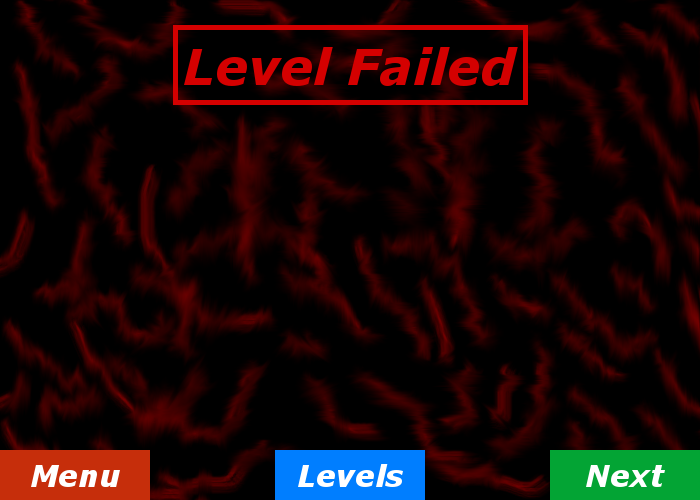
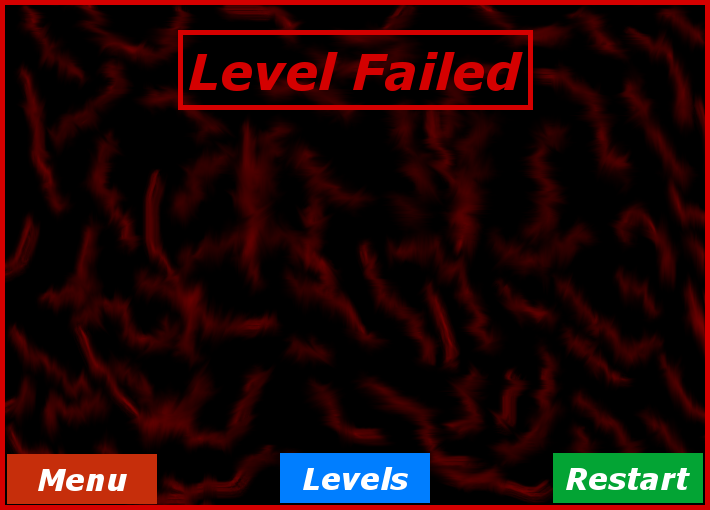
Loading screen, popis, defeat a victory screen, caslimit predelanej vsude na TimeSpan

diff --git a/TheLems/TheLems/HlavniOkno.cs b/TheLems/TheLems/HlavniOkno.cs
@@ -29,7 +29,7 @@ namespace TheLems
         Graphics GrafikaGameDisplay, GrafikaGameLandscape, GrafikaButtons, GrafikaMap, GrafikaText, GrafikaMenu;
         Point PoziceMysiObrazovka;
         Rectangle ZobrazenaCast; //Popisuje cast vyriznutou z obrazku cele mapy a zobrazenou na obrazovce
-        bool MapMouseDown;
+        bool MapMouseDown, Win;
         string AktLevelCesta;
         DateTime Cas; //FORTESTING
         TimeSpan UbehlyCas; //FORTESTING
@@ -301,7 +301,22 @@ namespace TheLems
                         }
                     }
                 else if (Stav == State.Begin)
-                    SwitchToGame();
+                    for (int i = 0; i < MenuTlacitka.Length; i++)
+                    {
+                        if (MenuTlacitka[i].Contains(e.Location))
+                        {
+                            switch (i)
+                            {
+                                case 0://Menu
+                                    SwitchToMenu();
+                                    break;
+                                case 1://Start
+                                    SwitchToGame();
+                                    break;
+                            }
+                            break;
+                        }
+                    }
                 else if (Stav == State.Pauza)
                     for (int i = 0; i < MenuTlacitka.Length; i++)
                     {
@@ -339,7 +354,13 @@ namespace TheLems
                                     break;
                                 case 1://Levels
                                     break;
-                                case 2://Next
+                                case 2://Next/Restart
+                                    if (Win)
+                                    { }
+                                    else
+                                    {
+                                        SwitchToBegin(AktLevelCesta);
+                                    }
                                     break;
  
                             }
@@ -410,6 +431,20 @@ namespace TheLems
                     PictureBoxMenu.Refresh();
                     break;
                 case State.Begin:
+                    GrafikaMenu.DrawRectangles(new Pen(Color.Black, 3), MenuTlacitka);
+                    for (int i = 0; i < MenuTlacitka.Length; i++)
+                    {
+                        if (MenuTlacitka[i].Contains(e.Location))
+                        {
+                            Tlacitko = i;
+                            break;
+                        }
+                    }
+                    if (Tlacitko != -1)
+                    {
+                        GrafikaMenu.DrawRectangle(new Pen(Color.White, 3), MenuTlacitka[Tlacitko]);
+                    }
+                    PictureBoxMenu.Refresh();
                     break;
             }
         }
@@ -474,9 +509,18 @@ namespace TheLems
                     PictureBoxText.Hide();
                     PictureBoxMap.Hide();                   
                     break;
+                case State.Begin:
+                    
+                    break;
                 default:
                     break;
             }
+            //Vynulovani vseho, protoze sem v menu
+            ToPictureBoxGame = null; ToPictureBoxMap = null; ToPictureBoxText = null; ToPictureBoxButtons = null;
+            GrafikaGameDisplay = null; GrafikaGameLandscape = null; GrafikaMap = null; GrafikaText = null;
+            Popredi = null; Pozadi = null; PozadiMini = null; TlacitkaUp = null; TlacitkaDown = null; ObrazkyLemmu = null; ObrazkyLemmuRot = null;
+            PauzaScreen = null;
+
             Stav = State.Menu;
             MouseOverTlacitko = -1;
             MenuTlacitka = new Rectangle[5];
@@ -505,22 +549,68 @@ namespace TheLems
             AktLevelCesta = (string) CestaKLevelu.Clone();
             switch (Stav)
             {
-                case State.Menu:
-                    
+                case State.Menu:               
                     break;
                 case State.Pauza:
-
+                    PictureBoxGame.Hide();
+                    PictureBoxButtons.Hide();
+                    PictureBoxText.Hide();
+                    PictureBoxMap.Hide();
+                    break;
                 case State.End:
+                    PictureBoxGame.Hide();
+                    PictureBoxButtons.Hide();
+                    PictureBoxText.Hide();
+                    PictureBoxMap.Hide();
                     break;
             }
 
             Stav = State.Begin;
-            //PictureBoxMenu.Image = new Bitmap(cesta + "_intro.png");
+            PictureBoxMenu.Image = new Bitmap(@"Animations\Loading.png");
+            PictureBoxMenu.Left = 0;
+            PictureBoxMenu.Top = 0;
+            PictureBoxMenu.Size = PictureBoxMenu.Image.Size;
+            GrafikaMenu = Graphics.FromImage(PictureBoxMenu.Image);
+            MenuTlacitka = new Rectangle[2];
+            MenuTlacitka[0] = new Rectangle(0, 668, 300, 100);
+            MenuTlacitka[1] = new Rectangle(980, 668, 300, 100);
             MouseOverTlacitko = -1;
 
             //Nacteni infa o levelu
             LevelDetails LevelInfo = new LevelDetails(CestaKLevelu + "_info.xml");
 
+            //Vypsani infa
+            GrafikaMenu.DrawString("Level: " + LevelInfo.Jmeno, new Font("Verdana", 20), Brushes.White, 50, 50);
+            GrafikaMenu.DrawString("Počet Lemmingů: " + LevelInfo.PocetLemmingu, new Font("Verdana", 20), Brushes.White, 50, 100);
+            GrafikaMenu.DrawString("Hranice pro vítězství:" + LevelInfo.HraniceProVitezstvi + "%", new Font("Verdana", 20), Brushes.White, 50, 150);
+            GrafikaMenu.DrawString("Časový limit: " + LevelInfo.CasovyLimit.Minutes + LevelInfo.CasovyLimit.Seconds, new Font("Verdana", 20), Brushes.White, 50, 200);
+            GrafikaMenu.DrawString("Počet spawnů: " + LevelInfo.PocetSpawnu, new Font("Verdana", 20), Brushes.White, 50, 250);
+            GrafikaMenu.DrawString("Počet cílů: " + LevelInfo.PocetCilu, new Font("Verdana", 20), Brushes.White, 50, 300);
+            
+            StringBuilder Formating = new StringBuilder(LevelInfo.Description);
+            Formating.Replace("\n", "");
+            Formating.Replace("\r", "");
+            string[] ZFormatovano = new string[(Formating.Length/70) + 1];
+            int Cyklus = 0, Hranice = 70;
+            while (Formating.Length > 0) //Pro rozstrihani do 70 charu dlouhejch stringu, aby se veslo na obrazovku
+            {
+                while (Formating.Length > Hranice && Formating[Hranice] != ' ')
+                {
+                    Hranice--;
+                }
+                if (Formating.Length < Hranice)
+                    Hranice = Formating.Length;
+                ZFormatovano[Cyklus] = Formating.ToString(0, Hranice);
+                Formating.Remove(0, Hranice);
+                Cyklus++;
+                Hranice = 70; 
+            }
+            GrafikaMenu.DrawString("Popis: " + ZFormatovano[0], new Font("Verdana", 20), Brushes.White, 50, 350);
+            for (int i = 1; i < ZFormatovano.Length && !string.IsNullOrWhiteSpace(ZFormatovano[i]) && i < 7; i++)
+            {
+                GrafikaMenu.DrawString(ZFormatovano[i], new Font("Verdana", 20), Brushes.White, 80, 350 + i*50);
+            }
+            
             //PictureBoxGame inic
             ToPictureBoxGame = new Bitmap(PictureBoxGame.Width, PictureBoxGame.Height);
             GrafikaGameDisplay = Graphics.FromImage(ToPictureBoxGame);
@@ -621,22 +711,31 @@ namespace TheLems
         {
             Stav = State.End;
             Timer.Enabled = false;
-            
+
 
             if (Konec == 1)
+            {
                 PictureBoxMenu.Image = new Bitmap(@"Animations\Victory.png");
+                Win = true;
+            }
             else
+            {
                 PictureBoxMenu.Image = new Bitmap(@"AnimationS\Defeat.png");
+                Win = false;
+            }
 
             PictureBoxMenu.Size = PictureBoxMenu.Image.Size;
-            PictureBoxMenu.Left = 290;
-            PictureBoxMenu.Top = 134;
+            PictureBoxMenu.Left = 285;
+            PictureBoxMenu.Top = 129;
             GrafikaMenu = Graphics.FromImage(PictureBoxMenu.Image);
             MenuTlacitka = new Rectangle[3];
-            MenuTlacitka[0] = new Rectangle(0, 450, 150, 50);
-            MenuTlacitka[1] = new Rectangle(275, 450, 150, 50);
-            MenuTlacitka[2] = new Rectangle(550, 450, 150, 50);
+            MenuTlacitka[0] = new Rectangle(7, 454, 150, 50);
+            MenuTlacitka[1] = new Rectangle(280, 454, 150, 50);
+            MenuTlacitka[2] = new Rectangle(553, 454, 150, 50);
 
+            GrafikaMenu.DrawString("Zachráněných: " + Hra.ProcentVCili() + "%", new Font("Verdana", 20), Brushes.White, 50, 150);
+            GrafikaMenu.DrawString("Potřebných pro splnění: " + Hra.HraniceProVitezstvi + "%", new Font("Verdana", 20), Brushes.White, 50, 200);
+            GrafikaMenu.DrawString("Zbývající čas: " + Hra.Limit.Minutes + ":" + Hra.Limit.Seconds, new Font("Verdana", 20), Brushes.White, 50, 250);
             PictureBoxMenu.Show();   
         }
 
@@ -957,9 +1056,10 @@ namespace TheLems
     class LevelDetails
     {
         public readonly string Jmeno;
+        public readonly string Description;
         public readonly int PocetLemmingu;
         public readonly int HraniceProVitezstvi;
-        public readonly int CasovyLimit;
+        public readonly TimeSpan CasovyLimit;
         public readonly int MaxRychlostSpawnu;
         public readonly int MinRychlostSpawnu;
         public readonly int AktRychlostSpawnu;
@@ -976,9 +1076,10 @@ namespace TheLems
             XmlDocument Input = new XmlDocument();
             Input.Load(CestaKXml);
             Jmeno = Input.SelectSingleNode("/Level").Attributes["Jmeno"].Value;
+            Description = Input.SelectSingleNode("/Level/Description").InnerText;
             PocetLemmingu = Convert.ToInt32(Input.SelectSingleNode("/Level/PocetLemmingu").InnerText);
             HraniceProVitezstvi = Convert.ToInt32(Input.SelectSingleNode("/Level/HraniceProcentProVitezstvi").InnerText);
-            CasovyLimit = Convert.ToInt32(Input.SelectSingleNode("/Level/CasovyLimit").InnerText);
+            CasovyLimit = new TimeSpan(0,0,0,Convert.ToInt32(Input.SelectSingleNode("/Level/CasovyLimit").InnerText),0);
             MaxRychlostSpawnu = Convert.ToInt32(Input.SelectSingleNode("/Level/MaxRychlostSpawnu").InnerText);
             MinRychlostSpawnu = Convert.ToInt32(Input.SelectSingleNode("/Level/MinRychlostSpawnu").InnerText);
             AktRychlostSpawnu = Convert.ToInt32(Input.SelectSingleNode("/Level/PocatecniRychlostSpawnu").InnerText);
@@ -1660,7 +1761,12 @@ namespace TheLems
         int BOOOOM,BOOOOMTimer; //Pro GlobalBOOM
         int AktPocetBlockeru;
         int PocetVCili;
-        int HraniceProVitezstvi;
+        int _HraniceProVitezstvi;
+        public int HraniceProVitezstvi
+        {
+            get { return _HraniceProVitezstvi; }
+            private set { _HraniceProVitezstvi = value; }
+        }
         TimeSpan _Limit;
         public TimeSpan Limit
         {
@@ -2013,7 +2119,7 @@ namespace TheLems
 
             Lemmingove = new Lemming[LevelInfo.PocetLemmingu];
             HraniceProVitezstvi = LevelInfo.HraniceProVitezstvi;
-            Limit = new TimeSpan(0,0,0,LevelInfo.CasovyLimit,0);      
+            Limit = LevelInfo.CasovyLimit;      
             MaxRychlostSpawnu = LevelInfo.MaxRychlostSpawnu;
             MinRychlostSpawnu = LevelInfo.MinRychlostSpawnu;
             AktRychlostSpawnu = LevelInfo.AktRychlostSpawnu;
